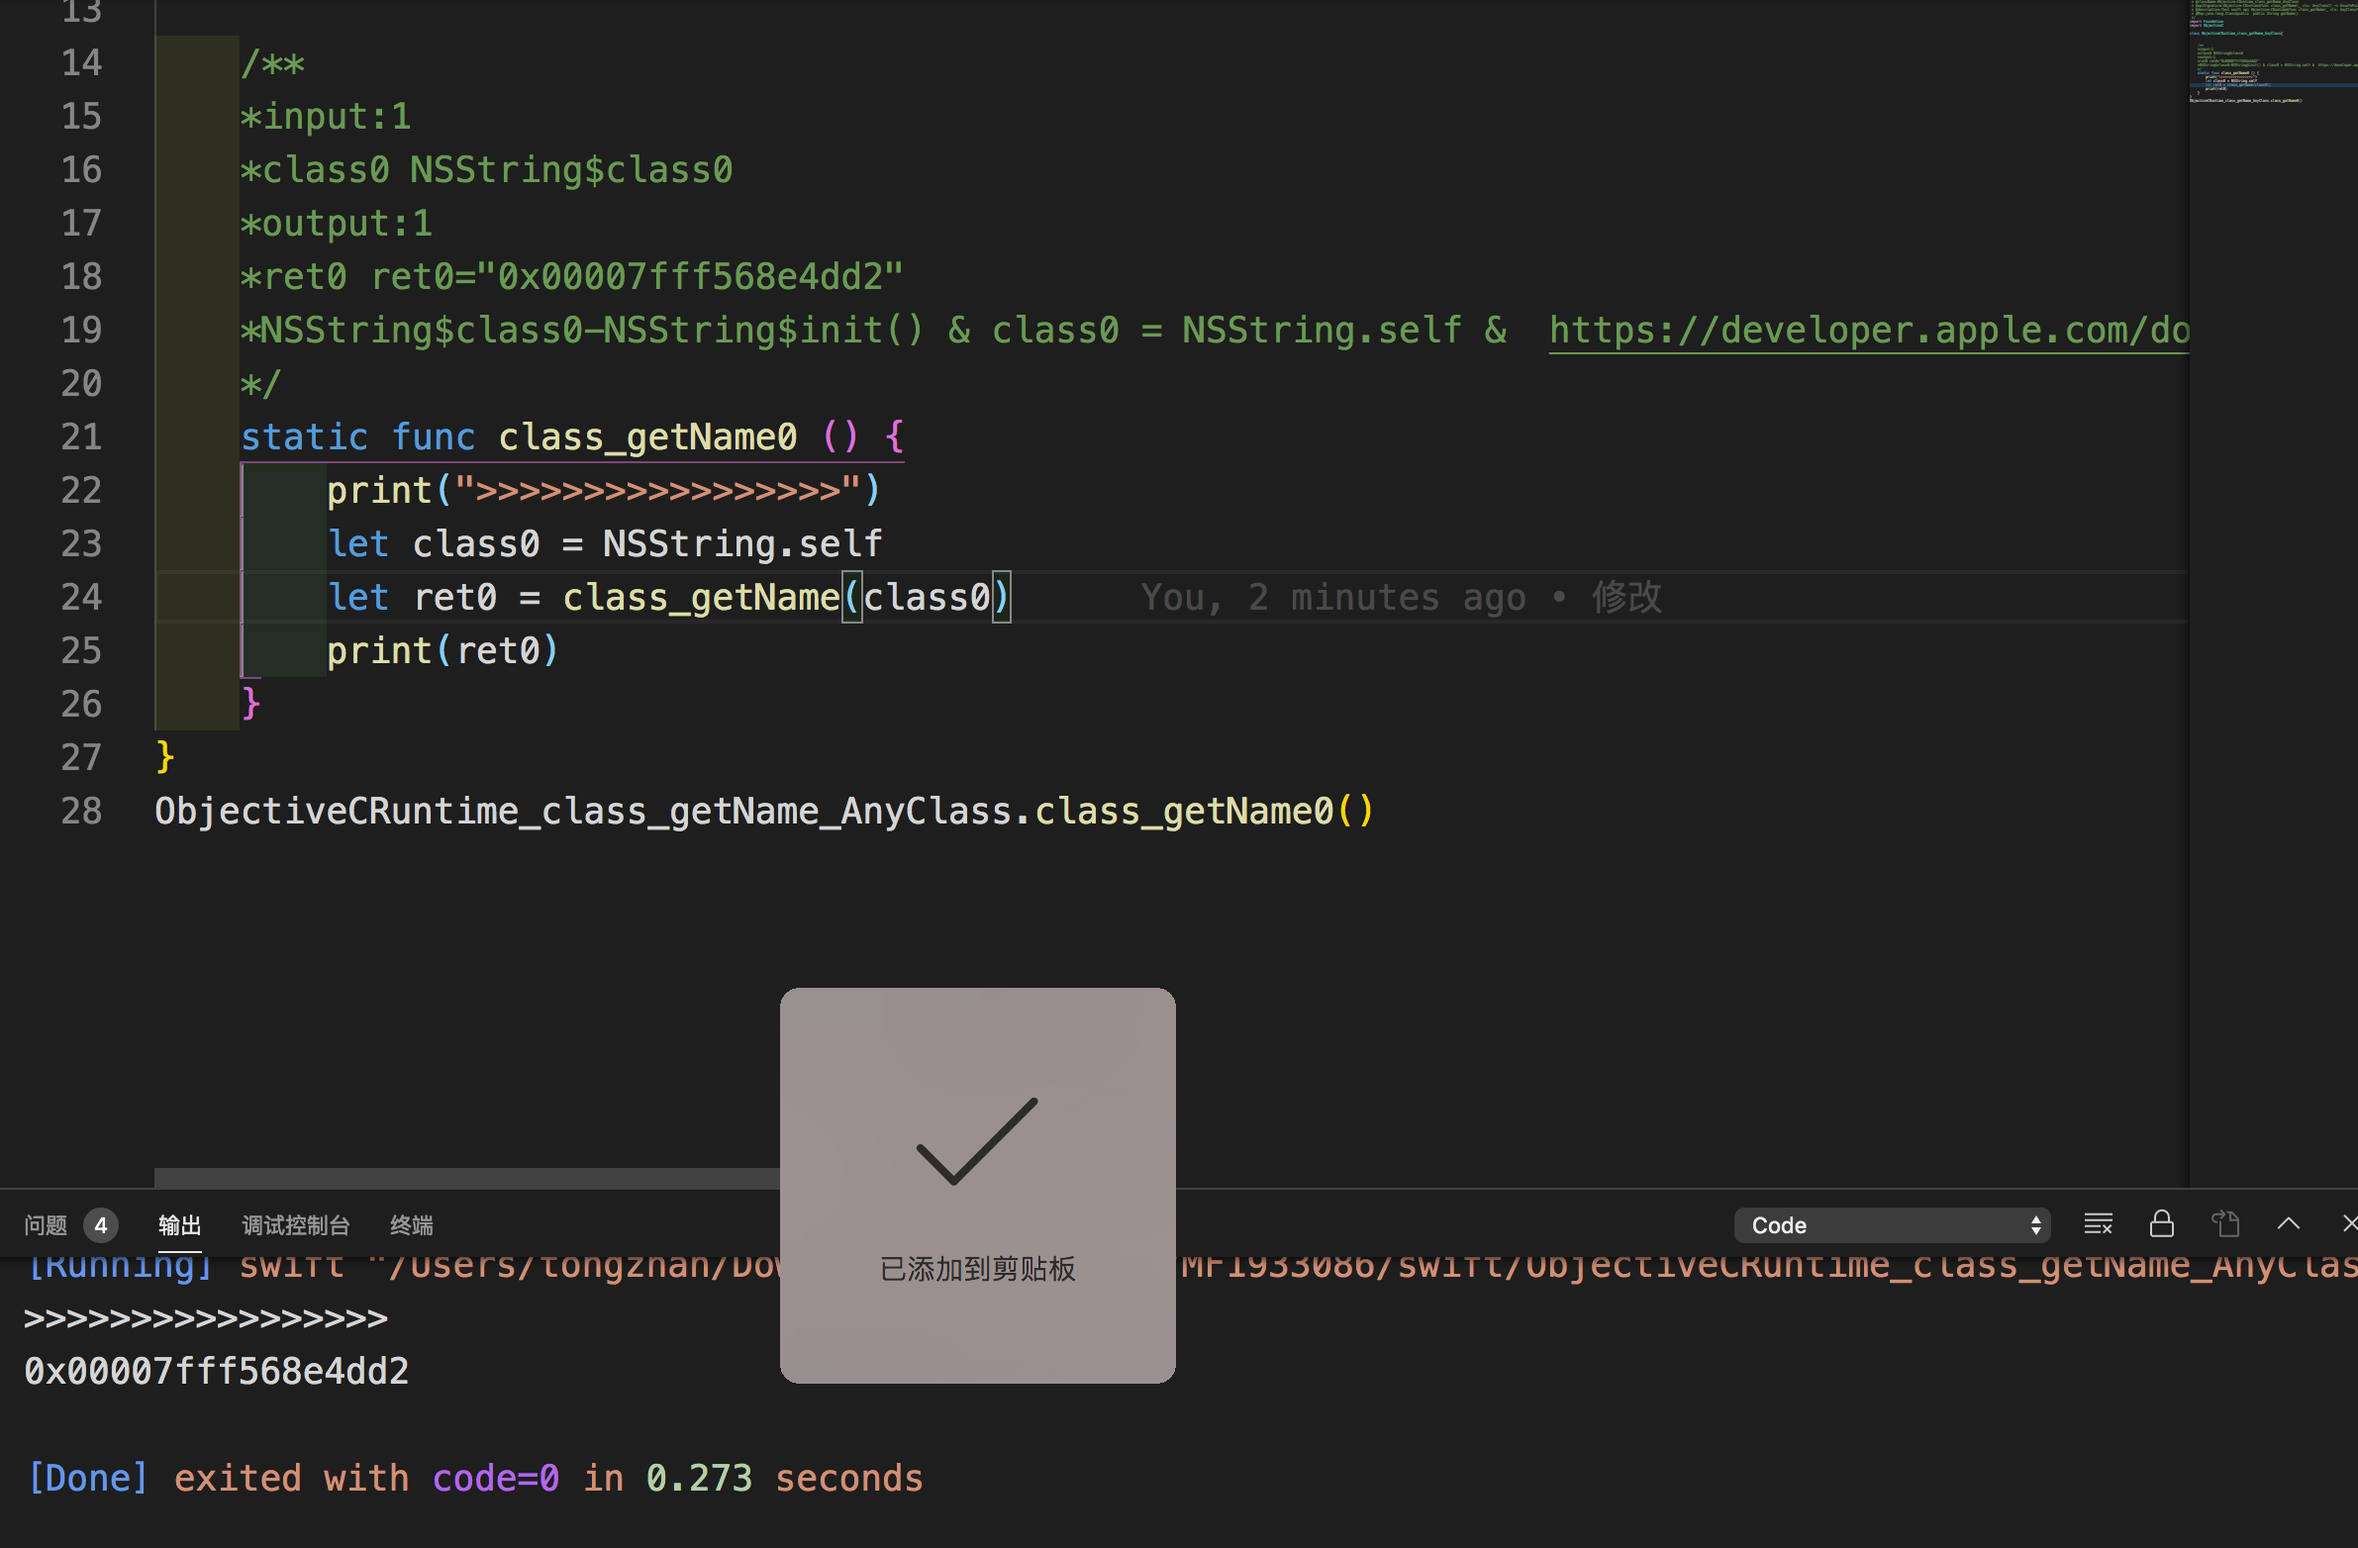
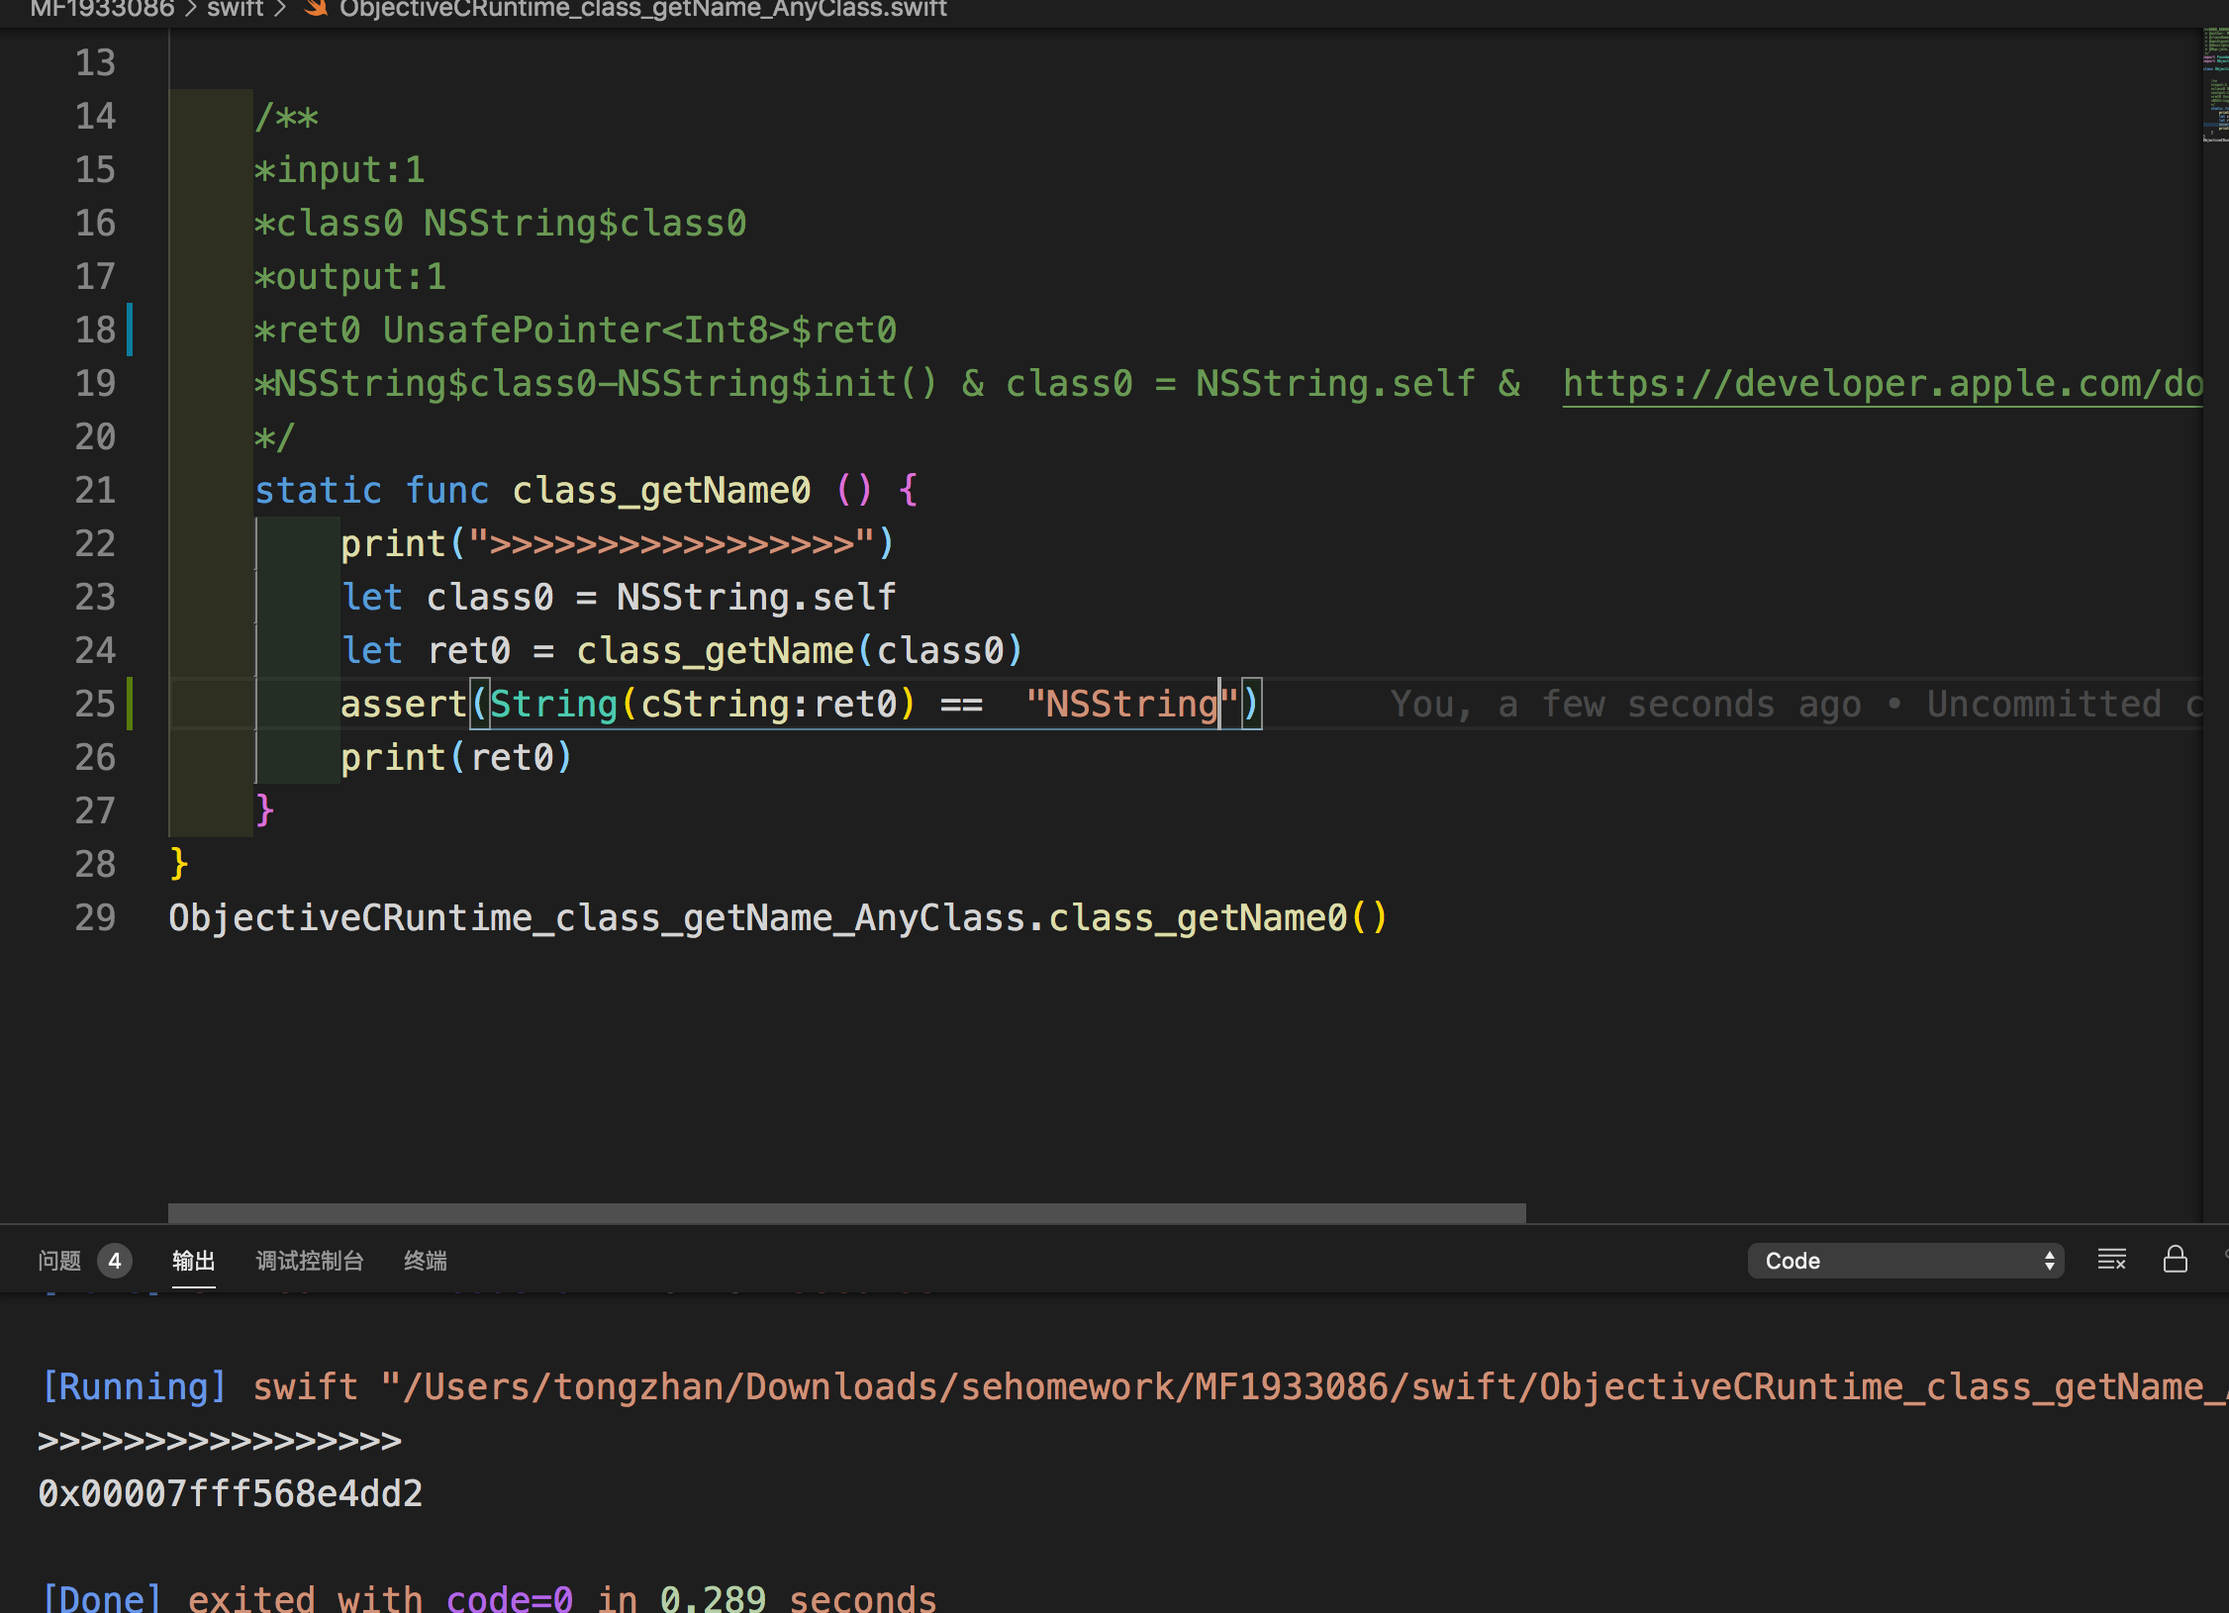
ret0

diff --git a/MF1933086/swift/ObjectiveCRuntime_class_getName_AnyClass.swift b/MF1933086/swift/ObjectiveCRuntime_class_getName_AnyClass.swift
@@ -15,13 +15,14 @@ class ObjectiveCRuntime_class_getName_AnyClass{
     *input:1
     *class0 NSString$class0 
     *output:1
-    *ret0 ret0="0x00007fff568e4dd2"
+    *ret0 UnsafePointer<Int8>$ret0
     *NSString$class0-NSString$init() & class0 = NSString.self &  https://developer.apple.com/documentation/foundation/nsstring?language=occ
     */
     static func class_getName0 () {
         print(">>>>>>>>>>>>>>>>>")
         let class0 = NSString.self
         let ret0 = class_getName(class0)
+        assert(String(cString:ret0) ==  "NSString")
         print(ret0)
     }
 }
